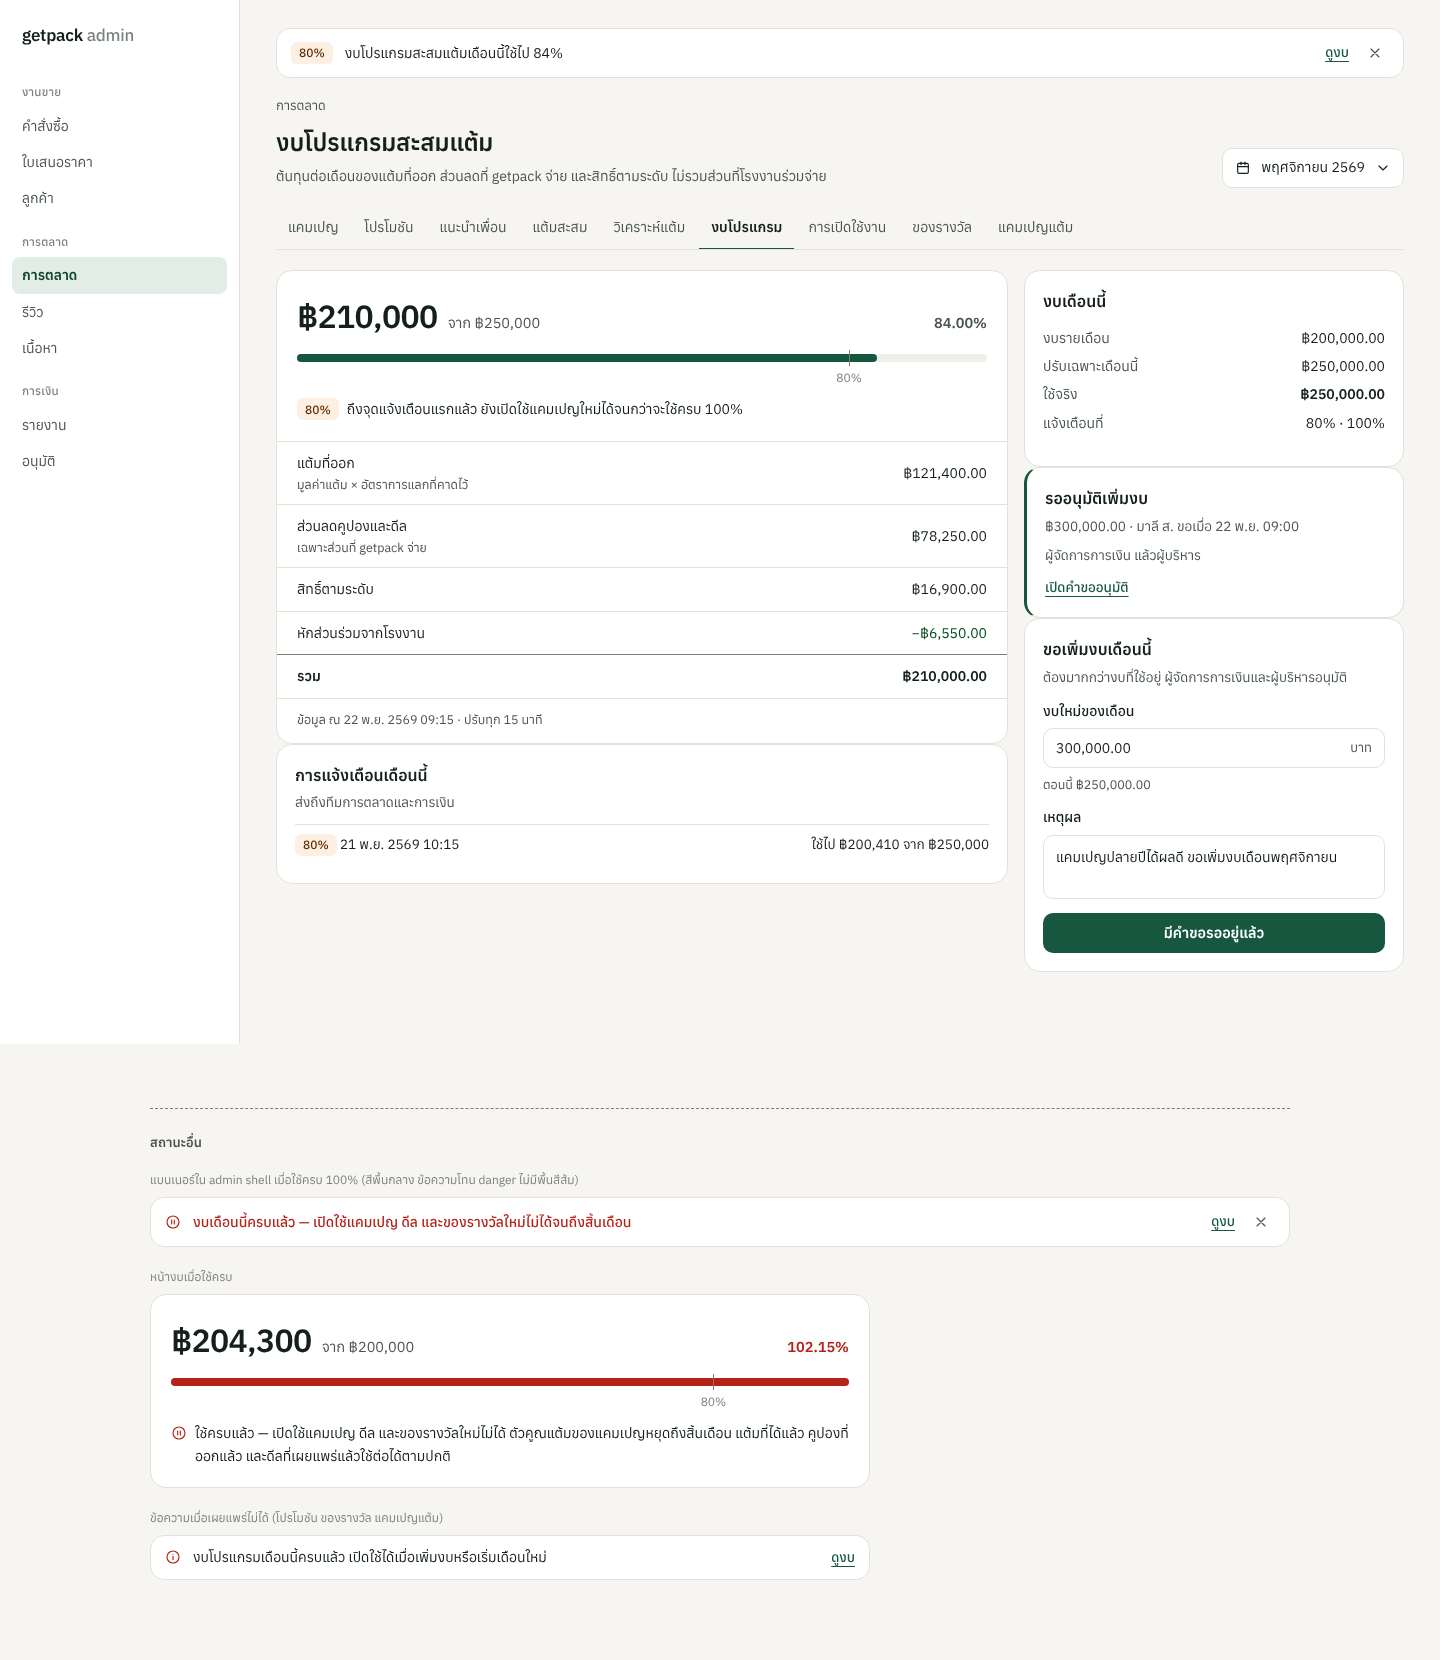
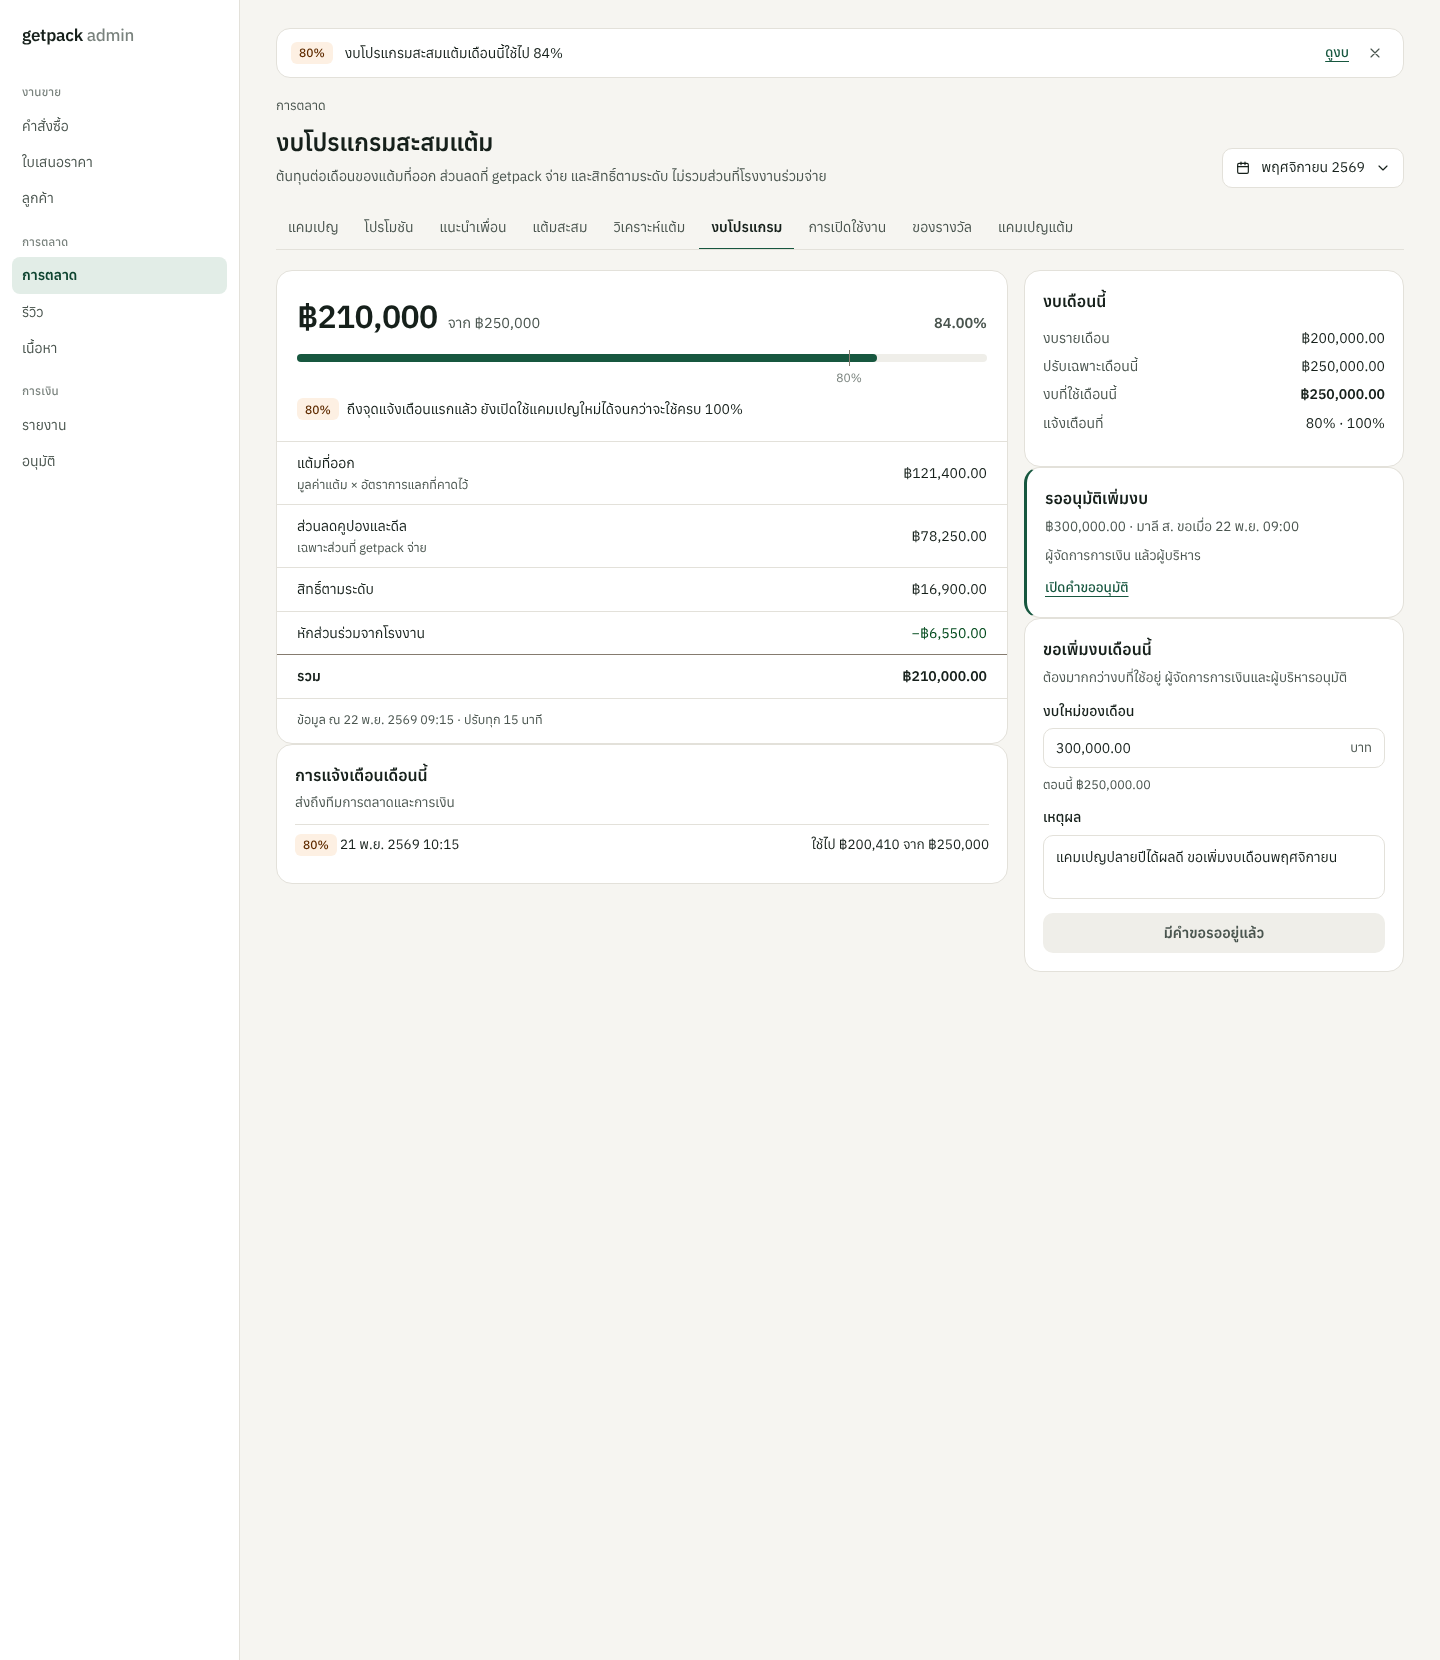
docs(loyalty): P4 budget prototype — effective budget label and a neutral pending button
The side card reads monthly budget, this month raised, then งบที่ใช้เดือนนี้ (was ใช้จริง); a disabled button takes the subtle neutral fill instead of the primary one. Screenshots 390 and 1440 re-shot.

diff --git a/docs/design/loyalty-earn-expansion/prototypes/p4-admin-budget.html b/docs/design/loyalty-earn-expansion/prototypes/p4-admin-budget.html
@@ -60,6 +60,7 @@ h1,h2,h3,p{margin:0}
 .btn.lg{height:52px;padding:0 24px;font-size:15.5px}
 .btn.nav{height:44px}
 .btn.block{width:100%}
+.btn:disabled{background:var(--bg-subtle);color:var(--muted);cursor:not-allowed}
 .lnk{color:var(--primary);font-weight:500;text-decoration:underline;text-underline-offset:4px;text-decoration-thickness:1px}
 .ib{display:inline-grid;place-items:center;width:32px;height:32px;border-radius:8px;border:0;background:transparent;color:var(--muted);cursor:pointer}
 .ib:hover{background:var(--bg-subtle);color:var(--fg)}
@@ -435,7 +436,7 @@ h1,h2,h3,p{margin:0}
 </div>
 <aside>
 <section class="panel side-c" style="margin-top:0" aria-labelledby="t-b"><h2 id="t-b">งบเดือนนี้</h2>
-<dl class="kv"><dt>งบรายเดือน</dt><dd>฿200,000.00</dd><dt>ปรับเฉพาะเดือนนี้</dt><dd>฿250,000.00</dd><dt>ใช้จริง</dt><dd class="b">฿250,000.00</dd><dt>แจ้งเตือนที่</dt><dd>80% · 100%</dd></dl></section>
+<dl class="kv"><dt>งบรายเดือน</dt><dd>฿200,000.00</dd><dt>ปรับเฉพาะเดือนนี้</dt><dd>฿250,000.00</dd><dt>งบที่ใช้เดือนนี้</dt><dd class="b">฿250,000.00</dd><dt>แจ้งเตือนที่</dt><dd>80% · 100%</dd></dl></section>
 <section class="panel side-c pend" aria-labelledby="t-p"><h2 id="t-p">รออนุมัติเพิ่มงบ</h2><p class="d">฿300,000.00 · มาลี ส. ขอเมื่อ 22 พ.ย. 09:00</p><p class="d" style="margin-top:8px">ผู้จัดการการเงิน แล้วผู้บริหาร</p><a class="lnk" href="#" style="display:inline-block;margin-top:10px;font-size:13.5px">เปิดคำขออนุมัติ</a></section>
 <section class="panel side-c" aria-labelledby="t-f"><h2 id="t-f">ขอเพิ่มงบเดือนนี้</h2><p class="d">ต้องมากกว่างบที่ใช้อยู่ ผู้จัดการการเงินและผู้บริหารอนุมัติ</p>
 <div class="fld" style="margin-top:12px"><label>งบใหม่ของเดือน</label><div class="inp num"><span>300,000.00</span><span class="u">บาท</span></div><span class="hint">ตอนนี้ ฿250,000.00</span></div>
